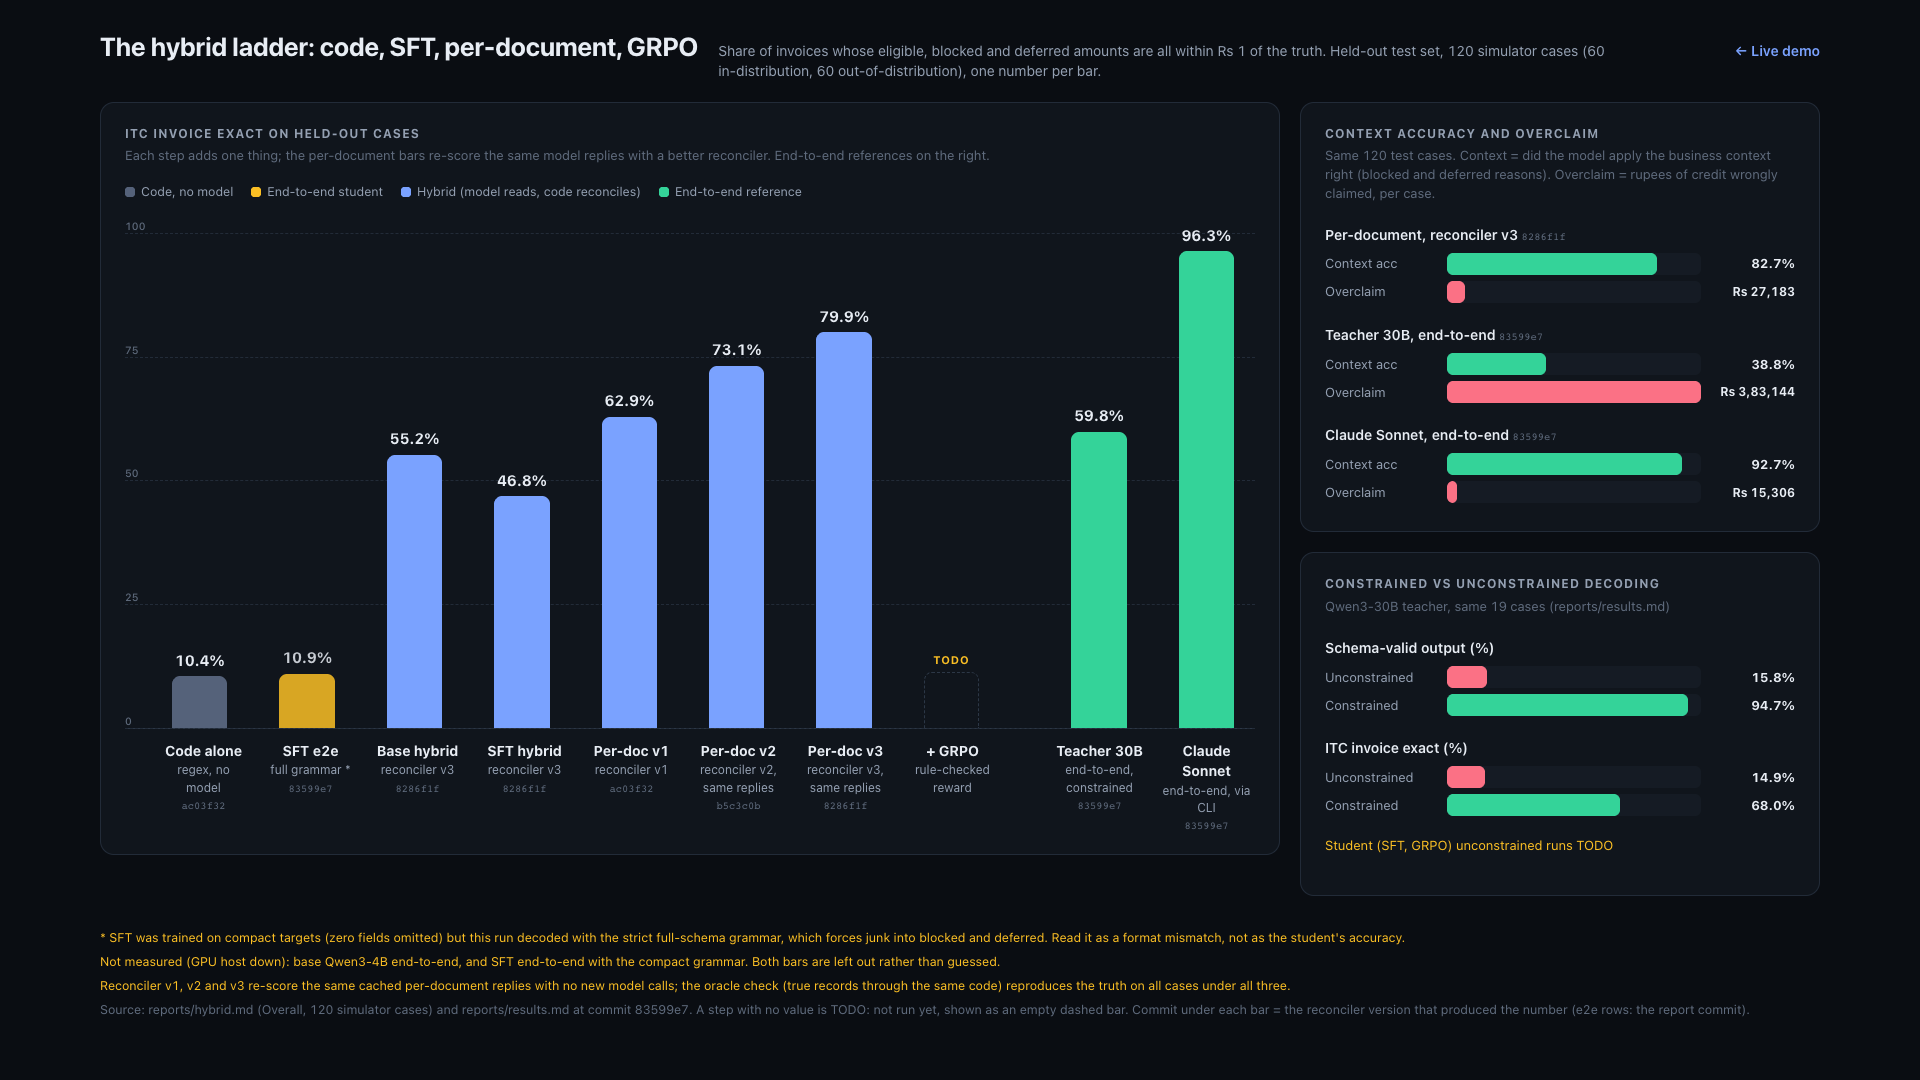
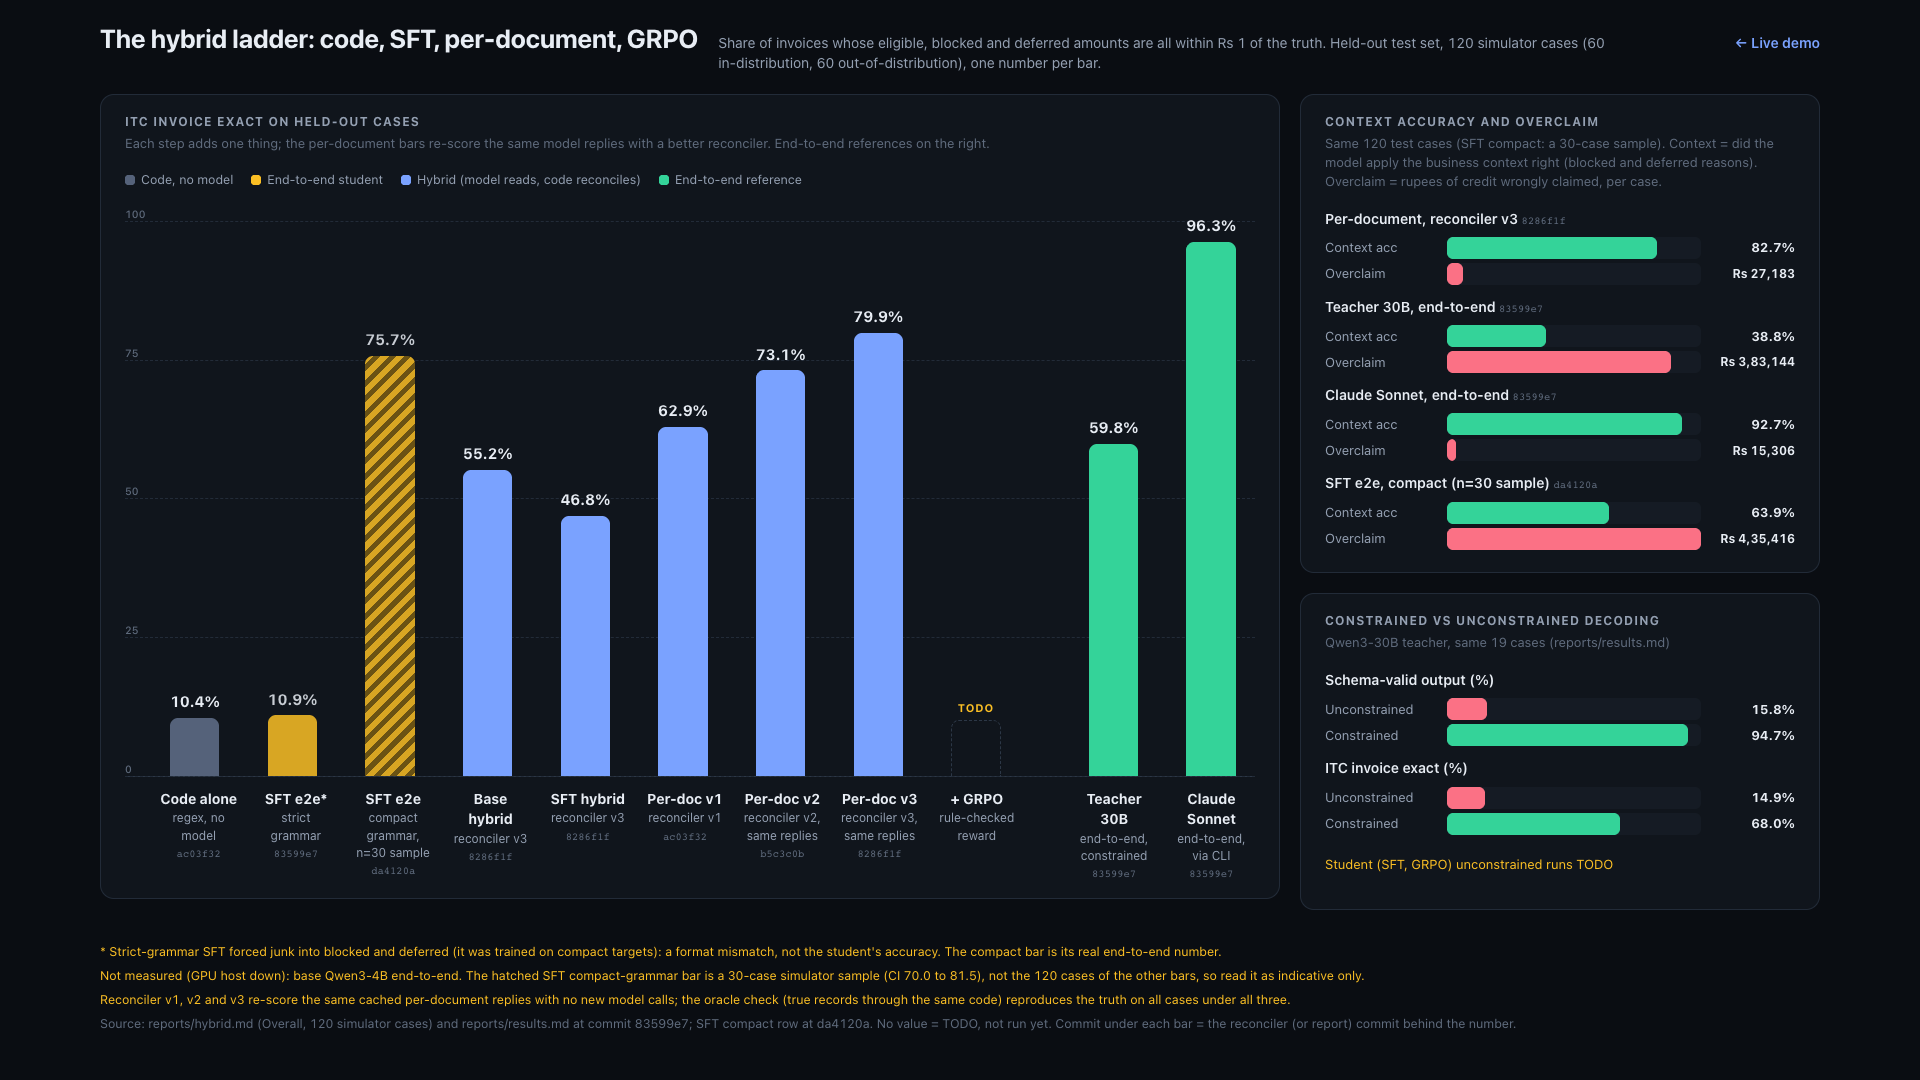
feat(demo): results chart adds the SFT compact-grammar bar (30-case sample, 7a6484d, hatched) and its context and overclaim row; fit 1080p

diff --git a/demo/static/results.html b/demo/static/results.html
@@ -8,17 +8,17 @@
 <link rel="stylesheet" href="/static/style.css">
 <style>
   body { display: block; height: auto; min-height: 100%; overflow: auto; }
-  .wrap { max-width: 1760px; margin: 0 auto; padding: 28px 20px 40px; display: grid; grid-template-columns: 1fr 520px; align-items: start; gap: 20px; }
+  .wrap { max-width: 1760px; margin: 0 auto; padding: 20px 20px 16px; display: grid; grid-template-columns: 1fr 520px; align-items: start; gap: 20px; }
   .wrap > header { grid-column: 1 / -1; display: flex; align-items: baseline; gap: 20px; }
   h1 { margin: 0; font-size: 26px; letter-spacing: -.01em; }
   .sub { color: var(--muted); max-width: 900px; }
   .back { color: var(--accent); text-decoration: none; font-weight: 600; margin-left: auto; white-space: nowrap; }
-  .card { background: var(--panel); border: 1px solid var(--line); border-radius: 14px; padding: 22px 24px; }
+  .card { background: var(--panel); border: 1px solid var(--line); border-radius: 14px; padding: 18px 24px; }
   .card h2 { margin: 0 0 4px; font-size: 12px; letter-spacing: .1em; text-transform: uppercase; color: var(--muted); }
   .card .lead { color: var(--dim); margin: 0 0 18px; font-size: 13px; }
   .legend { display: flex; flex-wrap: wrap; gap: 18px; margin-bottom: 8px; font-size: 12.5px; color: var(--muted); }
   .legend i { display: inline-block; width: 10px; height: 10px; border-radius: 3px; margin-right: 6px; vertical-align: -1px; }
-  .chart { padding-left: 30px !important; display: flex; align-items: flex-end; gap: 18px; height: 520px; padding: 24px 4px 0; border-bottom: 1px solid var(--line-2); position: relative; }
+  .chart { padding-left: 30px !important; display: flex; align-items: flex-end; gap: 18px; height: 580px; padding: 24px 4px 0; border-bottom: 1px solid var(--line-2); position: relative; }
   .grid { position: absolute; inset: 24px 0 0 0; padding-left: 0; pointer-events: none; }
   .grid span { position: absolute; left: 0; right: 0; border-top: 1px dashed var(--line); font-size: 10.5px; color: var(--dim); }
   .grid span b { position: absolute; left: 0; top: -15px; font-weight: 500; }
@@ -28,6 +28,7 @@
   .bar.code { background: #55627a; } .bar.e2e { background: var(--warn); opacity: .85; }
   .bar.hybrid { background: var(--accent); } .bar.ref { background: var(--ok); }
   .bar .v { position: absolute; bottom: 100%; left: 50%; transform: translateX(-50%); padding-bottom: 5px; font-weight: 700; font-size: 15px; font-variant-numeric: tabular-nums; white-space: nowrap; }
+  .bar.sample { background: repeating-linear-gradient(135deg, var(--warn) 0 6px, #7a5d12 6px 11px); }
   .bar.todo { background: transparent; border: 1.5px dashed var(--line-2); border-bottom: 0; height: 56px !important; }
   .bar.todo .v { color: var(--warn); font-size: 11px; letter-spacing: .08em; font-weight: 700; }
   .labels { display: flex; gap: 18px; padding: 12px 4px 0 34px; }
@@ -38,9 +39,9 @@
   .labels em { display: block; color: var(--dim); font: 10.5px ui-monospace, monospace; font-style: normal; margin-top: 3px; }
   .labels .cm { color: var(--dim); font: 10.5px ui-monospace, monospace; margin-top: 2px; }
   .side { display: flex; flex-direction: column; gap: 20px; }
-  .pair { margin: 22px 0 6px; }
+  .pair { margin: 12px 0 2px; }
   .pair .nm { font-weight: 600; margin-bottom: 8px; }
-  .row { display: grid; grid-template-columns: 112px 1fr 84px; align-items: center; gap: 10px; margin: 6px 0; font-size: 13px; color: var(--muted); }
+  .row { display: grid; grid-template-columns: 112px 1fr 84px; align-items: center; gap: 10px; margin: 4px 0; font-size: 13px; color: var(--muted); }
   .track { height: 22px; background: var(--panel-2); border-radius: 6px; overflow: hidden; }
   .track i { display: block; height: 100%; border-radius: 6px; transition: width .6s cubic-bezier(.2, .8, .2, 1); }
   .row .n { color: var(--text); font-weight: 700; font-variant-numeric: tabular-nums; text-align: right; }
@@ -72,7 +73,7 @@ const fmt = (v) => `${v.toFixed(1)}%`;
 
 function bar(c) {
   const todo = c.value == null;
-  return `<div class="bar ${c.kind}${todo ? " todo" : ""}" data-h="${todo ? 0 : c.value}"><span class="v">${todo ? "TODO" : fmt(c.value)}</span></div>`;
+  return `<div class="bar ${c.kind}${c.sample ? " sample" : ""}${todo ? " todo" : ""}" data-h="${todo ? 0 : c.value}"><span class="v">${todo ? "TODO" : fmt(c.value)}</span></div>`;
 }
 
 fetch("/static/results.json").then((r) => r.json()).then((d) => {

diff --git a/demo/VIDEO_PLAN.md b/demo/VIDEO_PLAN.md
@@ -87,8 +87,8 @@ Say "open, none merged" exactly; do not say "merged" or "accepted".
 ### Shot 7 - The results chart (2:20 to 2:50)
 
 Screen: open `http://localhost:8765/results` (the footer link "Results chart"); the bars animate in.
-Walk left to right: code alone 10.4, SFT end-to-end 10.9 (format mismatch footnote), base hybrid 55.2, SFT hybrid 46.8, per-doc v1 62.9, v2 73.1, v3 79.9, GRPO as a dashed TODO bar; then teacher 30B 59.8 and Claude Sonnet 96.3 on the right.
-Then the side panel: per-document v3 context accuracy 82.7% and overclaim Rs 27,183 per case, against the teacher at 38.8% and Rs 3,83,144.
+Walk left to right: code alone 10.4, SFT end-to-end with the strict grammar 10.9 (format mismatch footnote), SFT end-to-end with the compact grammar 75.7 (hatched bar: a 30-case sample, CI 70.0 to 81.5), base hybrid 55.2, SFT hybrid 46.8, per-doc v1 62.9, v2 73.1, v3 79.9, GRPO as a dashed TODO bar; then teacher 30B 59.8 and Claude Sonnet 96.3 on the right.
+Then the side panel: per-document v3 context accuracy 82.7% and overclaim Rs 27,183 per case, against the teacher at 38.8% and Rs 3,83,144, SFT end-to-end compact (30-case sample) at 63.9% and Rs 4,35,416, and Sonnet at 92.7% and Rs 15,306.
 Footer text on the page: ITC invoice exact, 120 simulator test cases, every number cites its commit.
 
 VO prompt: ITC invoice exact on 120 held-out simulator cases; code alone is 10; the per-document model with better reconciler versions climbs from 63 to 80 on the same model replies; the 30B teacher is 60 and Claude Sonnet is 96, so we are not claiming to beat a frontier model; the local model overclaims far less than the teacher.
@@ -106,7 +106,8 @@ VO prompt: this is trained and tested on a simulator, so the limits are real; pr
 - Sped-up segments carry the "8x" label.
 - The hard-case hybrid run is 19/23 exact, not perfect; the headline totals differ from truth and the video says so.
 - The reconciler version is in the footer in hybrid mode (`reconciler 8286f1f`), and "end-to-end (model only)" in end-to-end mode.
-- The SFT end-to-end bar on the chart is a format mismatch (strict grammar), footnoted on the page; the compact-grammar number is the end-to-end SFT run in shot 5.
+- The strict-grammar SFT bar (10.9) is a format mismatch, footnoted on the page; the compact-grammar SFT bar (75.7) is the student's real end-to-end number, but it is a 30-case sample with a wide interval, so say "on a 30-case sample" and do not rank it against the 120-case bars.
+- Be ready for the obvious question: SFT end-to-end (compact) scores close to per-document v3 on ITC exact, but its overclaim is far higher (Rs 4,35,416 per case on the sample, against Rs 27,183), which is the second panel's point.
 - The "caterer buys the same sugar" re-run is not supported by the app and is not shown.
 
 ## Timing summary
